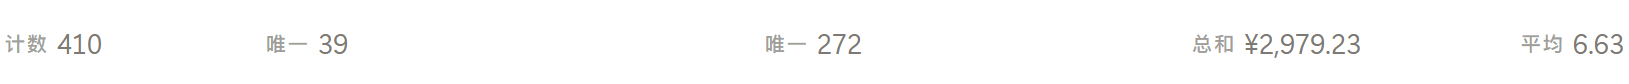
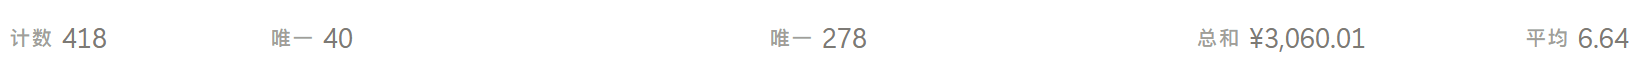
Update

diff --git a/index.html b/index.html
@@ -100,9 +100,9 @@
         <div class="section-title section-title-right">Blog</div>
         <div class="blog-list">
             <div class="blog-item">
-                <a href="blog/article.html?article=drink-recommendations&date=2025-11-18" class="blog-link">Drink
+                <a href="blog/article.html?article=drink-recommendations&date=2025-12-01" class="blog-link">Drink
                     Recommendations</a>
-                <span class="blog-date">November 18, 2025</span>
+                <span class="blog-date">December 1, 2025</span>
             </div>
             <div class="blog-item">
                 <a href="blog/article.html?article=campus-scenes&date=2025-10-18" class="blog-link">Movies or TV Series

diff --git a/blog/articles/drink-recommendations.md b/blog/articles/drink-recommendations.md
@@ -2,11 +2,11 @@
 
 > This article is written in Simplified Chinese.
 
-过去两年左右，我使用 [Notion 数据库](https://www.notion.com/help/intro-to-databases)记录了每一杯我喝过的奶茶，包括品牌、价格和评分。
+过去两年左右，我使用 [Notion 数据库](https://www.notion.com/help/intro-to-databases)记录了每一杯我点的奶茶，包括品牌、价格和评分。
 
 <img src="articles/images/drink-recommendations-p01.png" alt="统计数据">
 
-共统计了 39 个品牌的 410 杯奶茶，其中有 272 杯是不重复的，评分均值为 6.63。下面是个人评分 7 分及以上的奶茶，有一些已经下架，仅供参考。
+共统计了 40 个品牌的 418 杯奶茶，其中有 278 杯是不重复的，评分均值为 6.64。下面是个人评分 7 分及以上的奶茶，有一些已经下架，仅供参考。
 
 数据截止至 2025 年 12 月 1 日。
 
